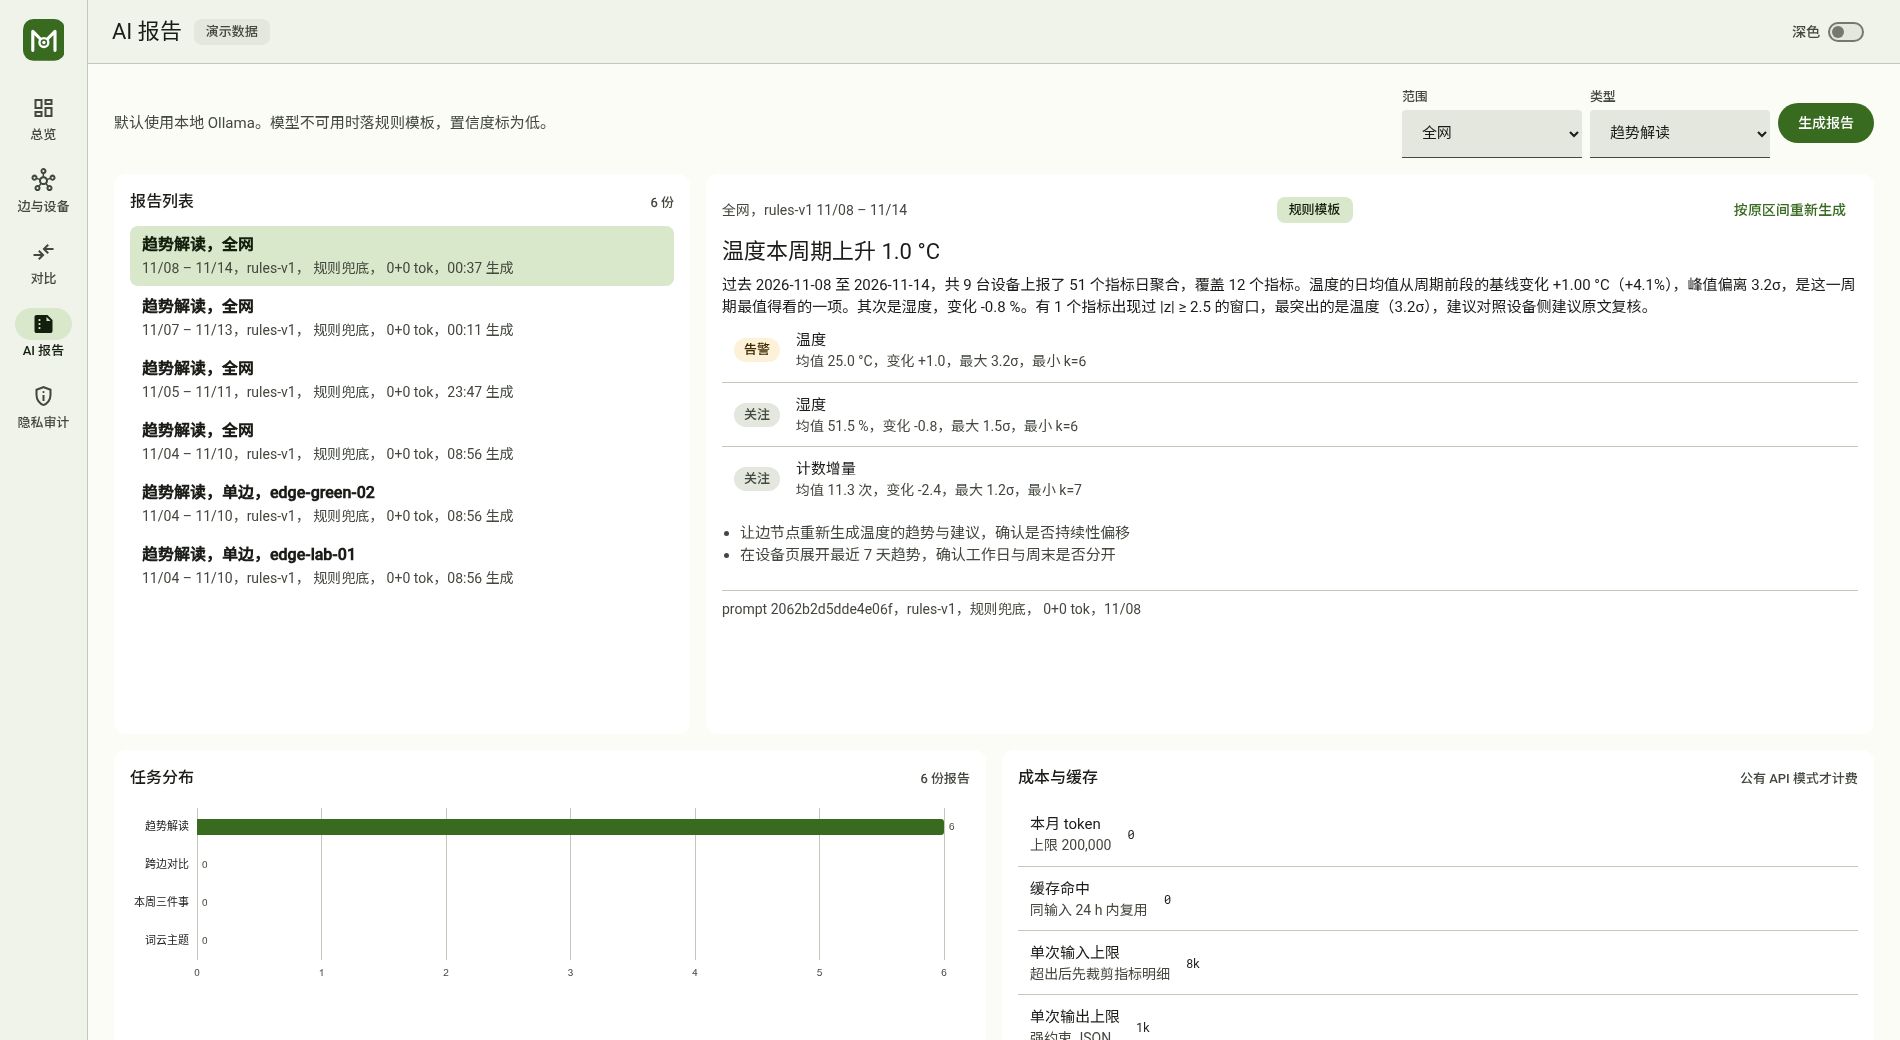
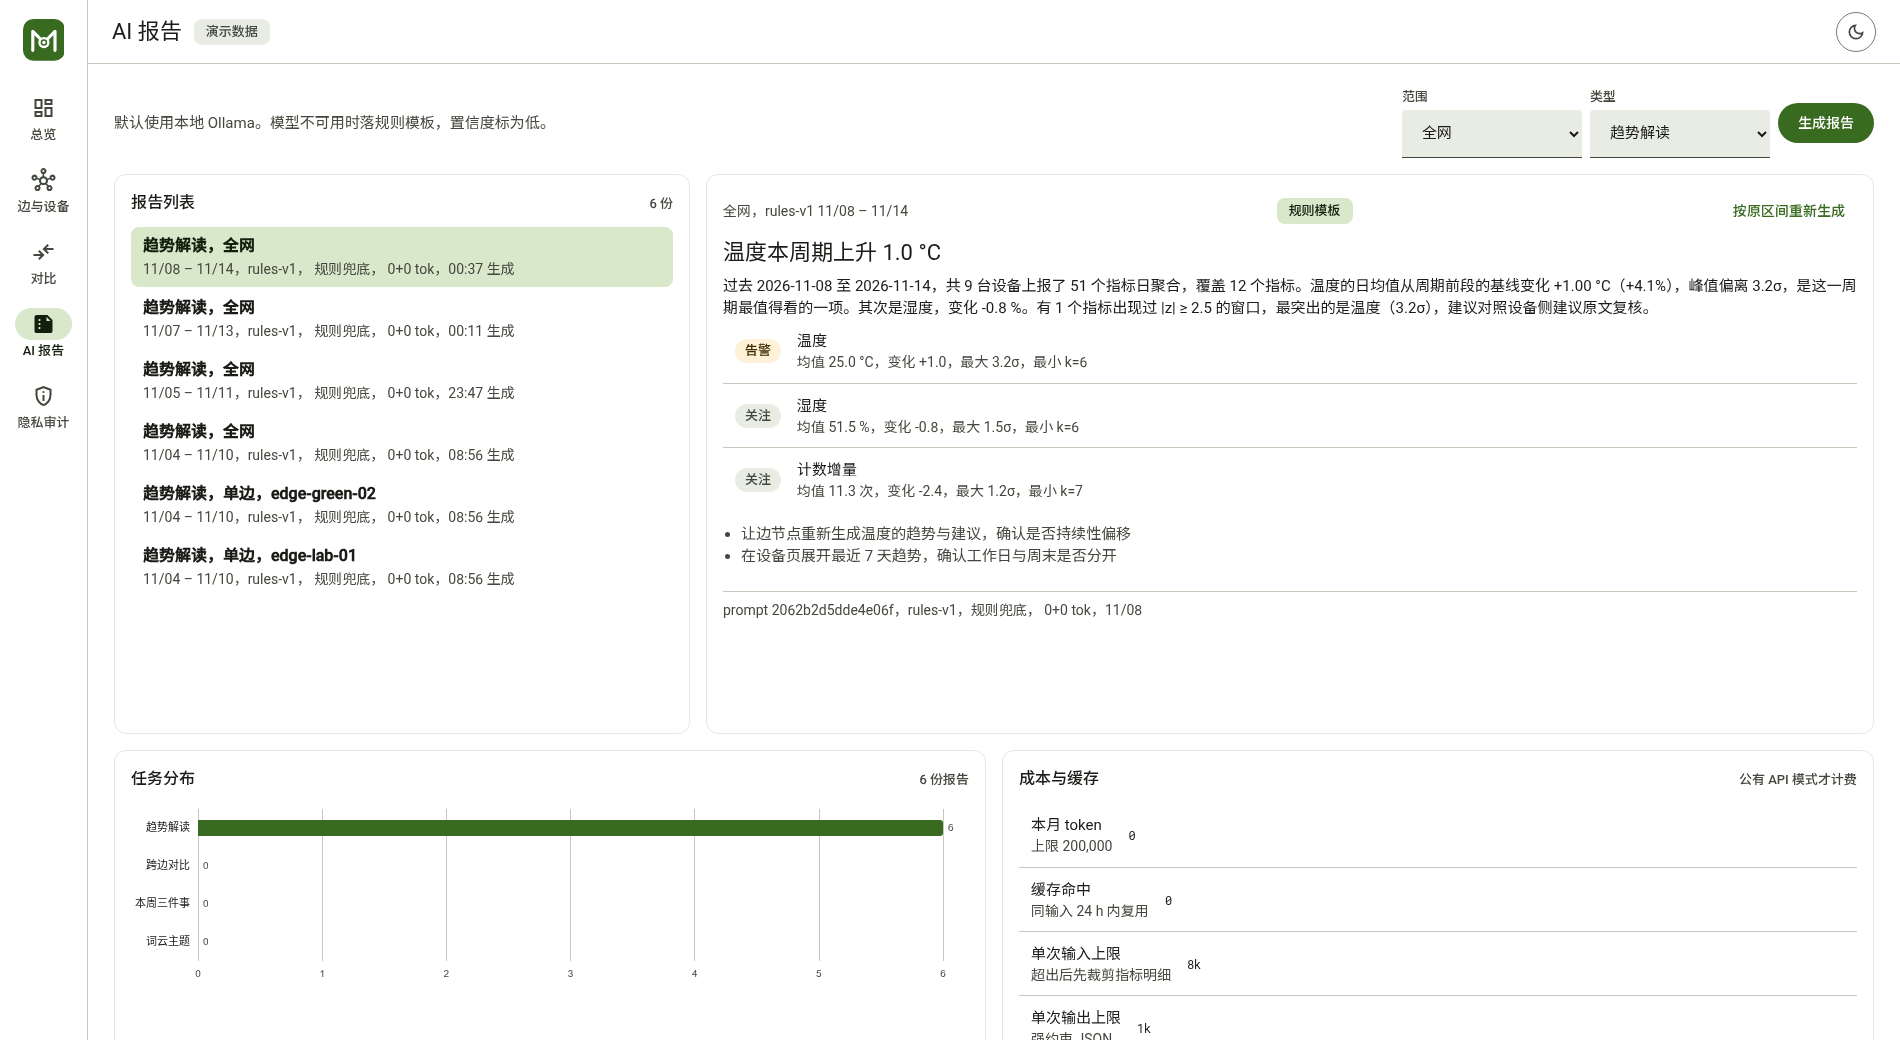
fix(web): 亮色底改纯白，主题切换换回图标按钮 (#19)
- 亮色 surface 从 #fbfcf6（带绿调）改成 #ffffff；rail 与顶栏也同白，
  靠 1px 分隔线划区；卡片白底 + #e6e9e0 细描边
- 状态条、KPI 条同步加描边
- 主题切换回到图标按钮（M3 outlined icon button）：亮色显月亮、暗色显太阳，
  40px 圆形带描边，aria-label 说明动作；smoke 仍点 .theme-toggle

diff --git a/web/src/styles/m3.css b/web/src/styles/m3.css
@@ -25,18 +25,18 @@
   --md-error-container: #ffdad6;
   --md-on-error-container: #410002;
 
-  /* 面：页面用 surface，卡片用容器级（靠色阶分层，不靠阴影） */
-  --md-surface: #fbfcf6;
+  /* 面：页面纯白，卡片同白靠细描边分层；外壳（rail/顶栏）用淡色容器区分 */
+  --md-surface: #ffffff;
   --md-on-surface: #1a1c18;
   --md-surface-tint: var(--md-primary);
   --md-surface-dim: #dcdfd4;
   --md-surface-bright: #ffffff;
   --md-surface-container-lowest: #ffffff;
   --md-surface-container-low: #ffffff;
-  --md-surface-container: #f0f3ea;
-  --md-surface-container-high: #e9ece3;
-  --md-surface-container-highest: #e3e7dd;
-  --md-surface-variant: #e3e7dd;
+  --md-surface-container: #f5f7f0;
+  --md-surface-container-high: #eff2e9;
+  --md-surface-container-highest: #e9ece2;
+  --md-surface-variant: #e9ece2;
   --md-on-surface-variant: #43483e;
   --md-outline: #74796d;
   --md-outline-variant: #c3c8bb;
@@ -45,9 +45,9 @@
   --md-scrim: #000000;
   --md-shadow: #000000;
 
-  /* 组件别名：历史命名，映射到真实角色，新代码直接用上面的 */
-  --md-card-bg: var(--md-surface-container-low);
-  --md-card-border: var(--md-outline-variant);
+  /* 组件别名：卡片纯白，靠 1px 描边和白色页面分开 */
+  --md-card-bg: #ffffff;
+  --md-card-border: #e6e9e0;
 
   /* ---- 严重度（只有异常才饱和） ---- */
   --md-ok: #386a20;
@@ -134,8 +134,9 @@
   --rail-w: 88px;
   --appbar-h: 64px;
   --content-max: 1760px;
-  --appbar-bg: var(--md-surface-container);
-  --rail-bg: var(--md-surface-container);
+  /* 外壳与页面同白，靠 1px 分隔线划区；暗色下外壳比纯黑略亮一层 */
+  --appbar-bg: var(--md-surface);
+  --rail-bg: var(--md-surface);
 }
 
 [data-theme='dark'] {
@@ -193,6 +194,11 @@
   --md-chart-6: #b8c78a;
   --md-chart-cool: var(--md-tertiary);
   --md-chart-warm: var(--md-notice);
+
+  --md-card-bg: #141414;
+  --md-card-border: transparent;
+  --appbar-bg: var(--md-surface-container);
+  --rail-bg: var(--md-surface-container);
 
   --md-elev-1: 0 1px 2px rgba(0, 0, 0, 0.6), 0 1px 3px 1px rgba(0, 0, 0, 0.4);
 }
@@ -424,6 +430,7 @@ h3 {
 
 .md-card {
   background: var(--md-card-bg);
+  border: 1px solid var(--md-card-border);
   border-radius: var(--md-shape-md);
   padding: var(--space-4);
 }
@@ -814,54 +821,27 @@ h3 {
 
 /* ---------------------------------------------------------------- 深色开关 */
 
-.theme-switch {
-  display: inline-flex;
-  align-items: center;
-  gap: var(--space-2);
+/* 主题切换：M3 outlined icon button，图标本身就是「切到哪边」 */
+.md-icon-outline {
+  display: inline-grid;
+  place-items: center;
+  width: 40px;
   height: 40px;
-  padding: 0 var(--space-3);
-  border: 0;
+  padding: 0;
+  border: 1px solid var(--md-outline);
   border-radius: var(--md-shape-full);
   background: transparent;
   color: var(--md-on-surface-variant);
-  font: var(--md-label-large);
   cursor: pointer;
-  transition: background-color var(--md-dur-short) var(--md-ease);
-}
-.theme-switch:hover {
-  background: color-mix(in srgb, var(--md-on-surface) 8%, transparent);
-}
-.theme-switch__track {
-  position: relative;
-  width: 36px;
-  height: 20px;
-  border-radius: var(--md-shape-full);
-  border: 2px solid var(--md-outline);
-  background: var(--md-surface-container-highest);
   transition: background-color var(--md-dur-short) var(--md-ease),
-    border-color var(--md-dur-short) var(--md-ease);
+    color var(--md-dur-short) var(--md-ease);
 }
-.theme-switch__thumb {
-  position: absolute;
-  top: 2px;
-  left: 2px;
-  width: 12px;
-  height: 12px;
-  border-radius: 50%;
-  background: var(--md-outline);
-  transition: transform var(--md-dur-short) var(--md-ease),
-    background-color var(--md-dur-short) var(--md-ease);
-}
-.theme-switch[aria-checked='true'] .theme-switch__track {
-  background: var(--md-primary);
-  border-color: var(--md-primary);
-}
-.theme-switch[aria-checked='true'] .theme-switch__thumb {
-  transform: translateX(16px);
-  background: var(--md-on-primary);
-}
-.theme-switch[aria-checked='true'] {
+.md-icon-outline:hover {
+  background: color-mix(in srgb, var(--md-on-surface) 8%, transparent);
   color: var(--md-on-surface);
+}
+.md-icon-outline:active {
+  background: color-mix(in srgb, var(--md-on-surface) 10%, transparent);
 }
 
 /* ---------------------------------------------------------------- 工具 */

diff --git a/web/src/App.vue b/web/src/App.vue
@@ -54,17 +54,13 @@ onMounted(async () => {
         <div class="appbar-actions">
           <slot name="appbar"></slot>
           <button
-            class="theme-switch theme-toggle"
-            role="switch"
-            :aria-checked="theme === 'dark'"
-            aria-label="深色模式"
-            :title="theme === 'dark' ? '切换为亮色' : '切换为深色'"
+            class="md-icon-outline theme-toggle"
+            :aria-label="theme === 'dark' ? '切到亮色' : '切到暗色'"
+            :aria-pressed="theme === 'dark'"
+            :title="theme === 'dark' ? '切到亮色' : '切到暗色'"
             @click="toggleTheme"
           >
-            <span class="theme-switch__label">深色</span>
-            <span class="theme-switch__track" aria-hidden="true">
-              <span class="theme-switch__thumb"></span>
-            </span>
+            <Icon :name="theme === 'dark' ? 'light_mode' : 'dark_mode'" :size="20" />
           </button>
         </div>
       </header>

diff --git a/web/src/components/KpiRow.vue b/web/src/components/KpiRow.vue
@@ -31,7 +31,8 @@ const arrow = (v) => (v > 0 ? '▲' : v < 0 ? '▼' : '—')
 .kpis {
   display: grid;
   grid-template-columns: repeat(auto-fit, minmax(190px, 1fr));
-  background: var(--md-surface-container-low);
+  background: var(--md-card-bg);
+  border: 1px solid var(--md-card-border);
   border-radius: var(--md-shape-md);
   overflow: hidden;
   grid-column: span 12;

diff --git a/web/src/components/StatusBar.vue b/web/src/components/StatusBar.vue
@@ -51,8 +51,9 @@ defineProps({
   align-items: center;
   gap: var(--space-4);
   padding: var(--space-4) var(--space-5);
+  border: 1px solid var(--md-card-border);
   border-radius: var(--md-shape-lg);
-  background: var(--md-surface-container-low);
+  background: var(--md-card-bg);
   grid-column: span 12;
 }
 .status--notice {
